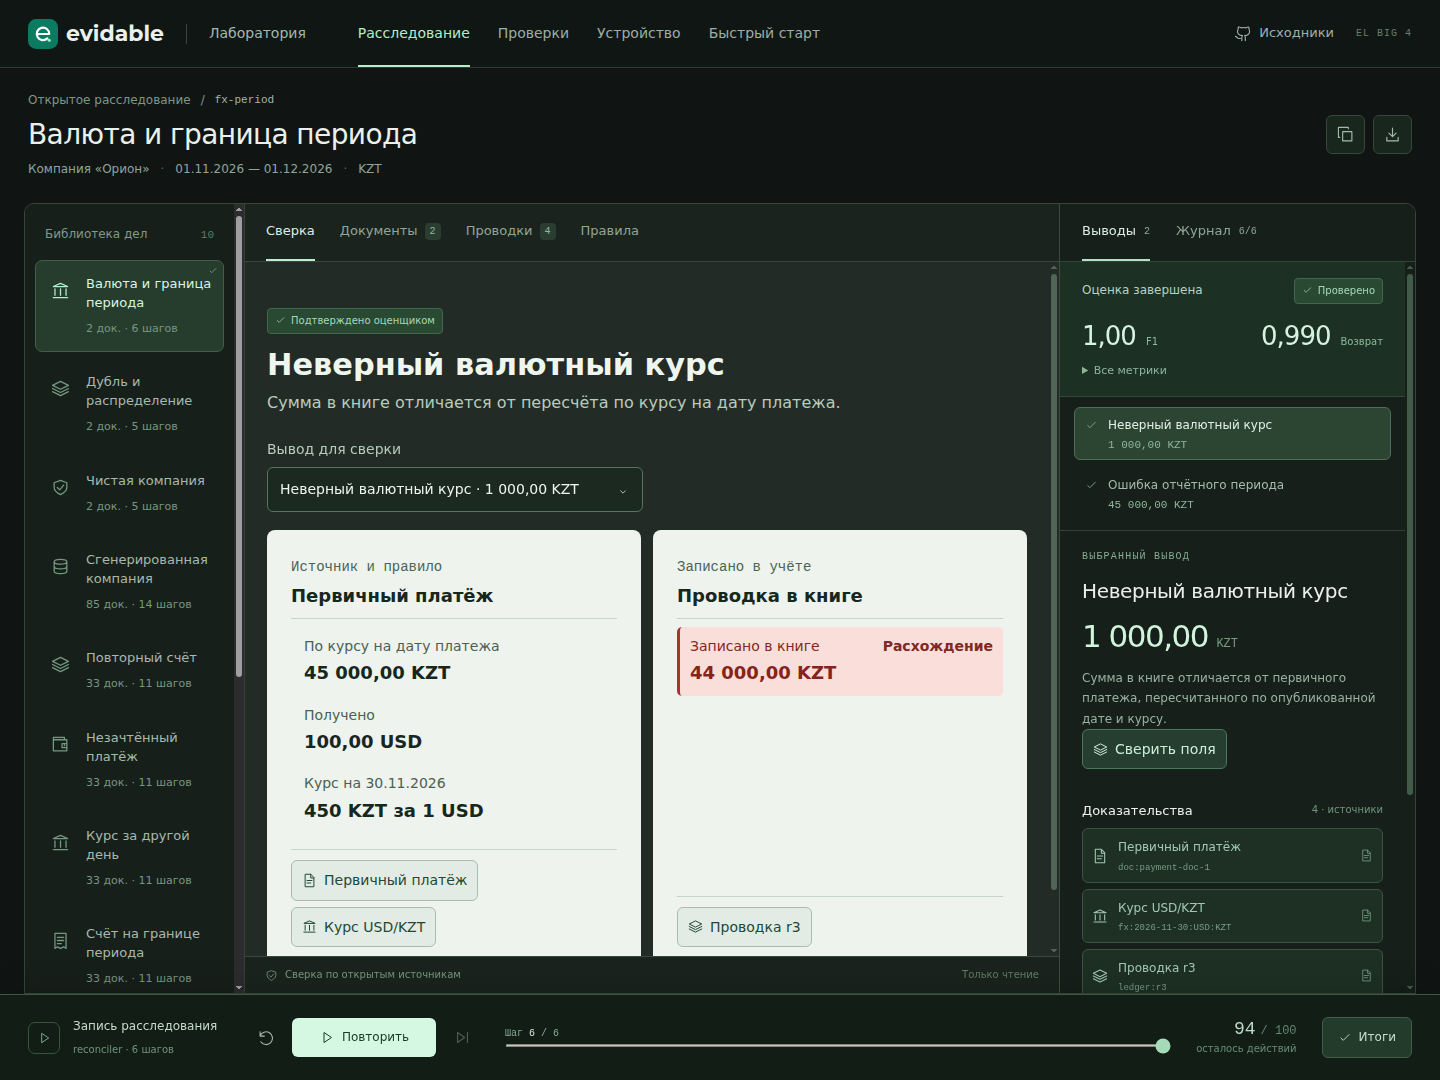
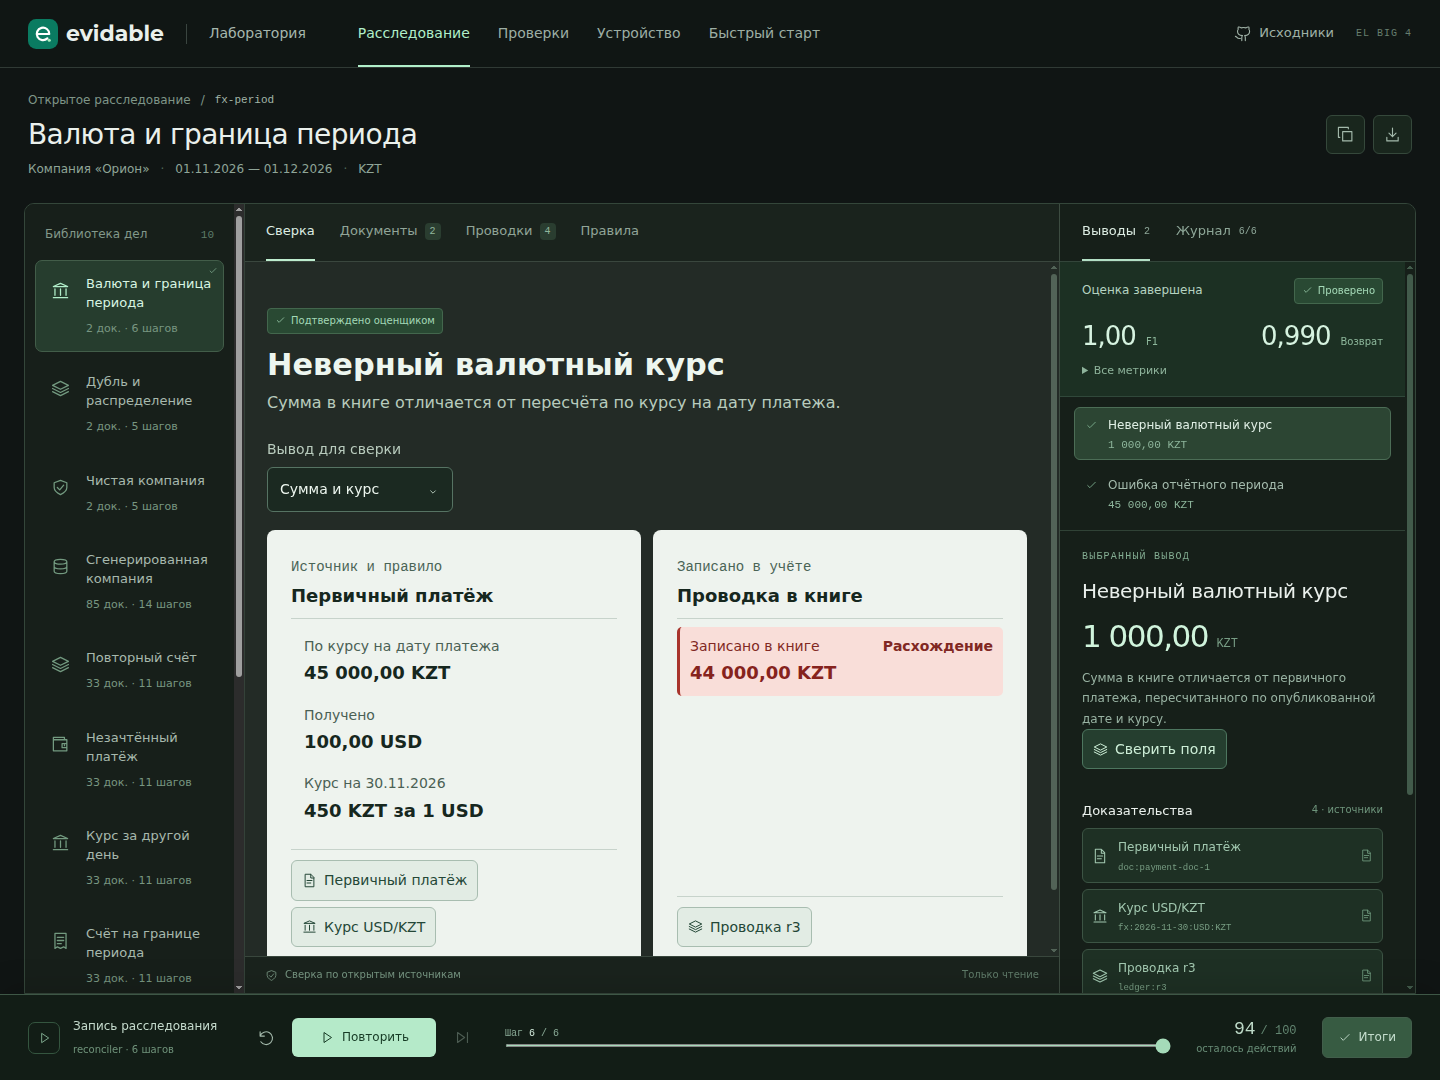
polish comparison picker

Changed region(s): [[0.1875, 0.4278, 0.4062, 0.4583], [0.1875, 0.9167, 0.3125, 0.9778], [0.9062, 0.9167, 1.0, 0.9778]]

diff --git a/web/app.js b/web/app.js
@@ -24,6 +24,12 @@ const names = {
   fx_conversion: "Неверный валютный курс",
   period_cutoff: "Ошибка отчётного периода",
 };
+const comparisonLabels = {
+  duplicate_invoice: "Повторный счёт",
+  payment_allocation: "Распределение",
+  fx_conversion: "Сумма и курс",
+  period_cutoff: "Отчётный период",
+};
 const accounts = {
   accounts_receivable: "Дебиторская задолженность",
   revenue: "Выручка",
@@ -248,8 +254,13 @@ function comparisonView() {
       choices.length > 1
         ? `<label class='comparison-picker' for='comparison-finding'><span>Вывод для сверки</span><select id='comparison-finding'>${choices
             .map((index) => {
-              const choice = findings[index];
-              return `<option value='${index}' ${Number(index) === findingIndex ? "selected" : ""}>${esc(names[choice.type])} · ${money(choice.claimed_amount_minor, choice.currency)} ${esc(choice.currency)}</option>`;
+              const type = findings[index].type;
+              const sameType = choices.filter(
+                (key) => findings[key].type === type,
+              );
+              const suffix =
+                sameType.length > 1 ? ` · ${sameType.indexOf(index) + 1}` : "";
+              return `<option value='${index}' ${Number(index) === findingIndex ? "selected" : ""}>${esc(comparisonLabels[type] + suffix)}</option>`;
             })
             .join("")}</select>${icon("chevron")}</label>`
         : ""
